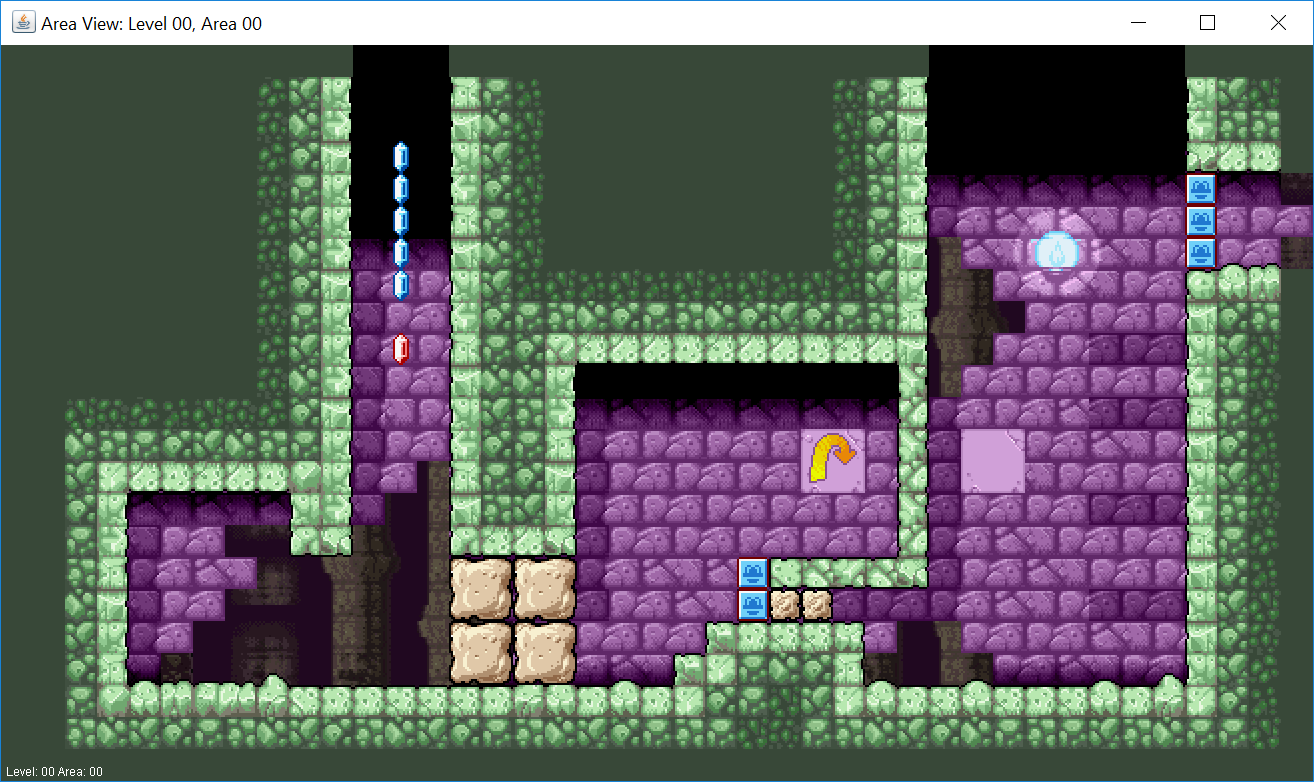
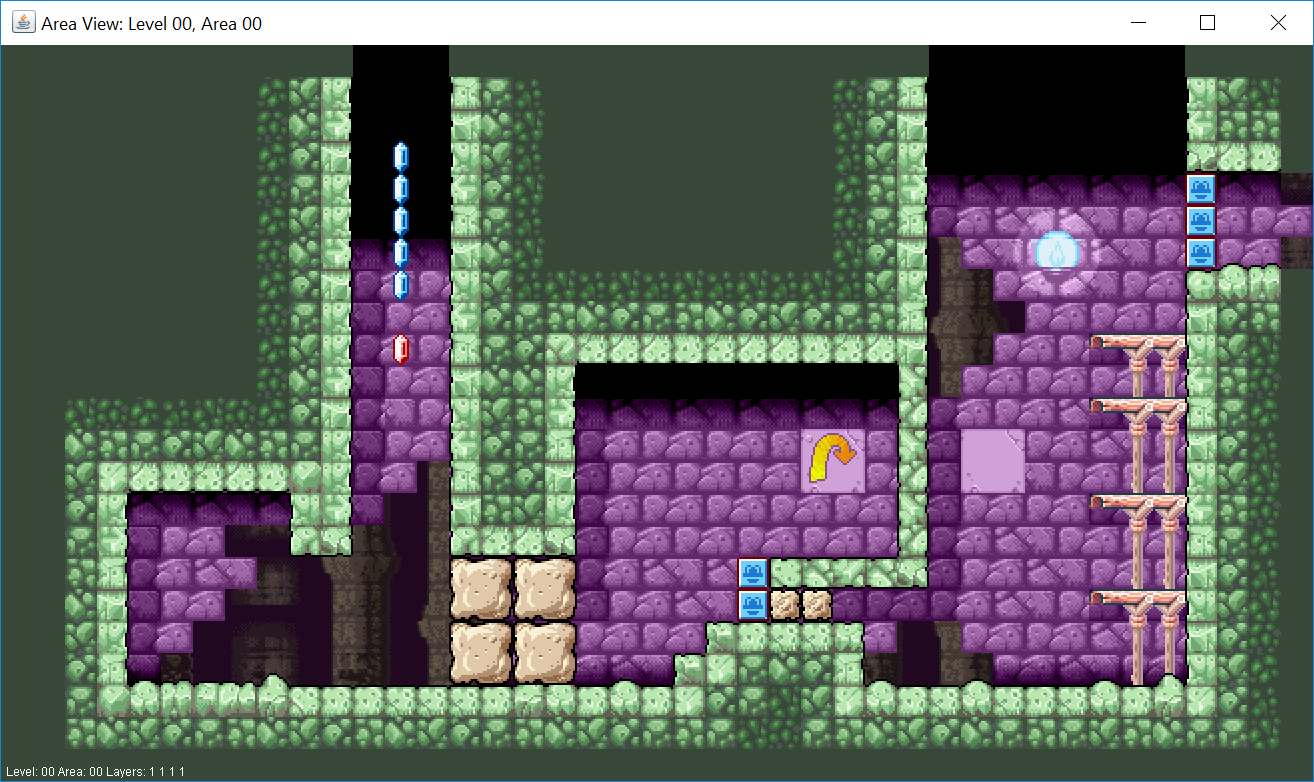
Layer priority works now

Changed region(s): [[0.8113, 0.399, 0.9049, 0.89], [0.0936, 0.9821, 0.1248, 1.0]]

diff --git a/src/wl4/WL4Area.java b/src/wl4/WL4Area.java
@@ -15,16 +15,19 @@ public class WL4Area {
 	/** Area data */
 	public int width;
 	public int height;
-	public short[][] layermap = new short[4][];
-	public byte[] layerproperties;
-	public int[] layerwidth = new int[4];
-	public int[] layerheight = new int[4];
+	public short[][] layerMap = new short[4][];
+	public byte[] layerProperties;
+	public int[] layerWidth = new int[4];
+	public int[] layerHeight = new int[4];
+	public int[] layerPriority = new int[4];
+	public double alphaBlendingOpacity = 0;
 	
 	/** Graphical data */
 	public GBAPalette[] palette = new GBAPalette[16];
 	public Tile8x8[] tileGFX = new Tile8x8[0x600];
 	public Map16Tile[] map16 = new Map16Tile[0x300];
 	public Tile8x8[][] dmaps = new Tile8x8[4][];
+	
 	
 	public String name;
 	
@@ -88,23 +91,23 @@ public class WL4Area {
 		int dim = WL4Utils.GetShort(data, WL4Utils.GetPointer(data, ahptr + 0xC));
 		width = dim & 0xFF;
 		height = (dim >> 8) & 0xFF;
-		layerproperties = Arrays.copyOfRange(data, ahptr + 1, ahptr + 5);
+		layerProperties = Arrays.copyOfRange(data, ahptr + 1, ahptr + 5);
 		
 		// Decompress graphical maps by layer
 		for(int i = 0; i < 4; ++i) {
 			int layerptr = WL4Utils.GetPointer(data, ahptr + 0x8 + (i << 2));
-			RLEData layerlower, layerupper;
+			RLEData layerLower, layerUpper;
 			// Determine layer type
 			if((data[ahptr + i + 1] & 0x10) != 0) {
 				// Use map16
-				layerwidth[i] = data[layerptr] & 0xFF;
-				layerheight[i] = data[layerptr + 1] & 0xFF;
-				layerlower = WL4Utils.uncompressRLE(data, layerptr + 2);
-				layerupper = WL4Utils.uncompressRLE(data, layerptr + 2 + layerlower.compressedSize);
+				layerWidth[i] = data[layerptr] & 0xFF;
+				layerHeight[i] = data[layerptr + 1] & 0xFF;
+				layerLower = WL4Utils.uncompressRLE(data, layerptr + 2);
+				layerUpper = WL4Utils.uncompressRLE(data, layerptr + 2 + layerLower.compressedSize);
 			} else if((data[ahptr + i + 1] & 0x20) != 0) {
 				// Direct tiles
-				layerwidth[i] = 64;
-				layerheight[i] = 32; // TODO where do I find these values? dimensions of direct mapped BGs
+				layerWidth[i] = 64;
+				layerHeight[i] = 32; // TODO where do I find these values? dimensions of direct mapped BGs
 				switch(name.substring(0, 2)) {
 				case "02":
 				case "04":
@@ -112,7 +115,7 @@ public class WL4Area {
 				case "0D":
 				case "11":
 				case "12":
-					layerwidth[i] = 32;
+					layerWidth[i] = 32;
 					break;
 				case "13":
 					switch(name) {
@@ -124,68 +127,123 @@ public class WL4Area {
 					case "13-5":
 					case "13-6":
 					case "13-7":
-						layerwidth[i] = 32;
+						layerWidth[i] = 32;
 					}
 				}
-				layerlower = WL4Utils.uncompressRLE(data, layerptr + 1);
-				layerupper = WL4Utils.uncompressRLE(data, layerptr + 1 + layerlower.compressedSize);
+				layerLower = WL4Utils.uncompressRLE(data, layerptr + 1);
+				layerUpper = WL4Utils.uncompressRLE(data, layerptr + 1 + layerLower.compressedSize);
 			} else {
 				// Layer disabled
 				continue;
 			}
-			layermap[i] = new short[layerwidth[i] * layerheight[i]];
+			layerMap[i] = new short[layerWidth[i] * layerHeight[i]];
 			
 			// Error checking
-			if(layerlower.data == null || layerupper.data == null) {
+			if(layerLower.data == null || layerUpper.data == null) {
 				return;
 			}
-			if(layerlower.data.length != layerupper.data.length) {
+			if(layerLower.data.length != layerUpper.data.length) {
 				System.out.printf("Warning: Upper/Lower layer %d size mismatch for area 0x%06X!" +
-						" Lower: %d, upper: %d\n", i, ahptr, layerlower.data.length, layerupper.data.length);
+						" Lower: %d, upper: %d\n", i, ahptr, layerLower.data.length, layerUpper.data.length);
 			}
-			if(layerlower.data.length != layerwidth[i] * layerheight[i]) {
+			if(layerLower.data.length != layerWidth[i] * layerHeight[i]) {
 				System.out.printf("Warning: RLE data layer %d size mismatch for area 0x%06X!" +
-						" Size: %d, Dim: %d\n", i, ahptr, layerlower.data.length, layerwidth[i] * layerheight[i]);
+						" Size: %d, Dim: %d\n", i, ahptr, layerLower.data.length, layerWidth[i] * layerHeight[i]);
 			}
-			for(int j = 0; j < layerwidth[i] * layerheight[i]; ++j) {
-				layermap[i][j] = (short) (((0xFF & layerupper.data[j]) << 8) | (0xFF & layerlower.data[j]));
+			for(int j = 0; j < layerWidth[i] * layerHeight[i]; ++j) {
+				layerMap[i][j] = (short) (((0xFF & layerUpper.data[j]) << 8) | (0xFF & layerLower.data[j]));
 			}
 			
 			// If direct tile mapping, then create tiles
 			if((data[ahptr + i + 1] & 0x20) != 0) {
-				dmaps[i] = new Tile8x8[layerwidth[i] * layerheight[i]];
+				dmaps[i] = new Tile8x8[layerWidth[i] * layerHeight[i]];
 				for(int j = 0; j < dmaps[i].length; ++j) {
-					int idx = layermap[i][j] & 0x3FF;
-					dmaps[i][j] = new Tile8x8(tileGFX[0x200 + idx], layermap[i][j], palette);
+					int idx = layerMap[i][j] & 0x3FF;
+					dmaps[i][j] = new Tile8x8(tileGFX[0x200 + idx], layerMap[i][j], palette);
 				}
 			}
 		}
+		
+		// Set layer priority
+		layerPriority[3] = 3;
+		layerPriority[0] = layerPriority[1] = layerPriority[2] = 0;
+		int pri_idx = data[ahptr + 0x1A] & 0xFF;
+		if(pri_idx < 5 || (pri_idx & 3) == 0) {
+			layerPriority[1] = 1;
+			layerPriority[2] = 2;
+		} else if((pri_idx & 3) == 1) {
+			layerPriority[0] = 1;
+			layerPriority[2] = 2;
+		} else if((pri_idx & 3) == 2) {
+			layerPriority[0] = 1;
+			layerPriority[2] = 2;
+		} else {
+			layerPriority[0] = 2;
+			layerPriority[2] = 1;
+		}
+		
+		// Set alpha blending
+		if(pri_idx > 7) {
+			// Perform alpha blending
+			int EVA = (((pri_idx - 8) >> 2) * 3 + 7);
+			alphaBlendingOpacity = EVA / 16.0;
+			// TODO restructure draw() so layers are rendered separately for alpha blending
+		}
+	}
+	
+	/**
+	 * Return an array with the layer indexes in their appropriate draw order
+	 * @return
+	 */
+	private int[] drawOrder() {
+		int[] order = new int[4];
+		int idx = 0;
+		for(int i = 3; i >= 0; --i) {
+			for(int j = 0; j < 4; ++j) {
+				if(layerPriority[j] == i) {
+					order[idx++] = j;
+				}
+			}
+		}
+		return order;
 	}
 	
 	/**
 	 * Unfortunately, g.drawImage doesn't appear to work
 	 * @param g
 	 * @param scale
+	 * @param mask Which layers to draw
 	 */
-	public void draw(Graphics g, int scale) {
-		int[] vals = {3, 2, 0, 1}; // TODO get some proper layer priority going
-		for(int i : vals) {
-			if((layerproperties[i] & 0x10) != 0) {
-				// Use map16
-				for(int j = 0; j < layerheight[i]; ++j) {
-					for(int k = 0; k < layerwidth[i]; ++k) {
-						map16[layermap[i][j * layerwidth[i] + k]].draw(g, (k << 4) * scale, (j << 4) * scale, scale);
+	public void draw(Graphics g, int scale, int mask) {
+		for(int i : drawOrder()) {
+			if(((mask >> i) & 1) == 1) {
+				if((layerProperties[i] & 0x10) != 0) {
+					// Use map16
+					for(int j = 0; j < layerHeight[i]; ++j) {
+						for(int k = 0; k < layerWidth[i]; ++k) {
+							map16[layerMap[i][j * layerWidth[i] + k]].draw(
+									g, (k << 4) * scale, (j << 4) * scale, scale);
+						}
 					}
-				}
-			} else if((layerproperties[i] & 0x20) != 0) {
-				// Use direct tile map
-				for(int j = 0; j < (layerheight[1] << 1); ++j) {
-					for(int k = 0; k < (layerwidth[1] << 1); ++k) {
-						dmaps[i][(j % layerheight[i]) * layerwidth[i] + (k % layerwidth[i])].draw(
-								g, (k << 3) * scale, (j << 3) * scale, scale);
+				} else if((layerProperties[i] & 0x20) != 0) {
+					// Use direct tile map
+					for(int j = 0; j < (layerHeight[1] << 1); ++j) {
+						for(int k = 0; k < (layerWidth[1] << 1); ++k) {
+							dmaps[i][(j % layerHeight[i]) * layerWidth[i] + (k % layerWidth[i])].draw(
+									g, (k << 3) * scale, (j << 3) * scale, scale);
+						}
 					}
 				}
 			}
 		}
+	}
+	
+	/**
+	 * Draw all layers
+	 * @param g
+	 * @param scale
+	 */
+	public void draw(Graphics g, int scale) {
+		draw(g, scale, 0xF);
 	}
 }

diff --git a/src/wl4/ui/DataTester.java b/src/wl4/ui/DataTester.java
@@ -69,6 +69,7 @@ public class DataTester {
 		private WL4Level[] levels;
 		private int levelIdx = 0;
 		private int areaIdx = 0;
+		private int mask = 0xF;
 		public AreaTestFrame(WL4Level[] levels) {
 			this.levels = levels;
 			this.addWindowListener(new WindowListener() {
@@ -112,6 +113,18 @@ public class DataTester {
 						}
 					} else if(e.getKeyCode() == KeyEvent.VK_ESCAPE) {
 						System.exit(0);
+					} else if(e.getKeyCode() == KeyEvent.VK_1) {
+						mask ^= 1;
+						repaint();
+					} else if(e.getKeyCode() == KeyEvent.VK_2) {
+						mask ^= 2;
+						repaint();
+					} else if(e.getKeyCode() == KeyEvent.VK_3) {
+						mask ^= 4;
+						repaint();
+					} else if(e.getKeyCode() == KeyEvent.VK_4) {
+						mask ^= 8;
+						repaint();
 					}
 				}
 				@Override
@@ -143,9 +156,11 @@ public class DataTester {
 				super.paintComponent(g);
 				g.setColor(Color.BLACK);
 				g.fillRect(0, 0, getWidth(), getHeight());
-				area.draw(g, SCALE);
+				area.draw(g, SCALE, mask);
 				g.setColor(Color.WHITE);
-				g.drawString(String.format("Level: %02X Area: %02X", levelIdx, areaIdx), 5, getHeight() - 5);
+				g.drawString(String.format("Level: %02X Area: %02X Layers: %d %d %d %d",
+						levelIdx, areaIdx, mask & 1, (mask >> 1) & 1, (mask >> 2) & 1,
+						(mask >> 3) & 1), 5, getHeight() - 5);
 			}
 		}
 	}

diff --git a/src/wl4/WL4Constants.java b/src/wl4/WL4Constants.java
@@ -12,6 +12,7 @@ public final class WL4Constants {
 		//      :                 Src: AA BB CC xx DD DD DD DD
 		//      :                 Dst: AA BB 00 CC 00 xx xx xx DD DD DD DD
 		// 01   : Layer 0 property bitvector (10 = enable, 20 = ???, 01 = ???, 02 = ???)
+		//      :   Bit 5 (0x20) unset: Priority 2 0 1 3
 		// 02   : Layer 1 properties (always 10)
 		// 03   : Layer 2 properties
 		// 04   : Layer 3 properties (commonly 20... ?)
